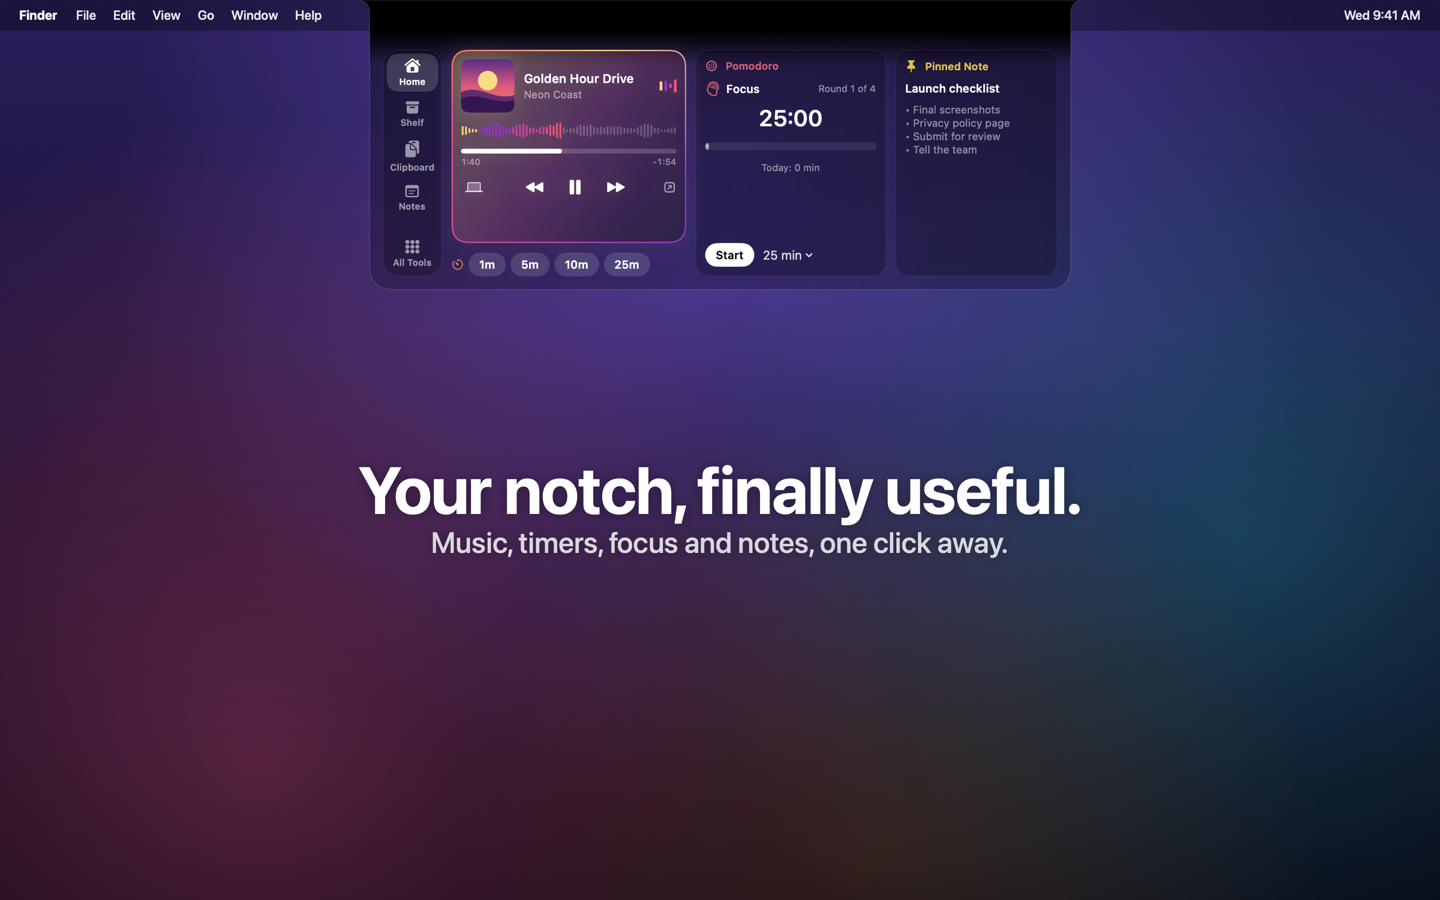
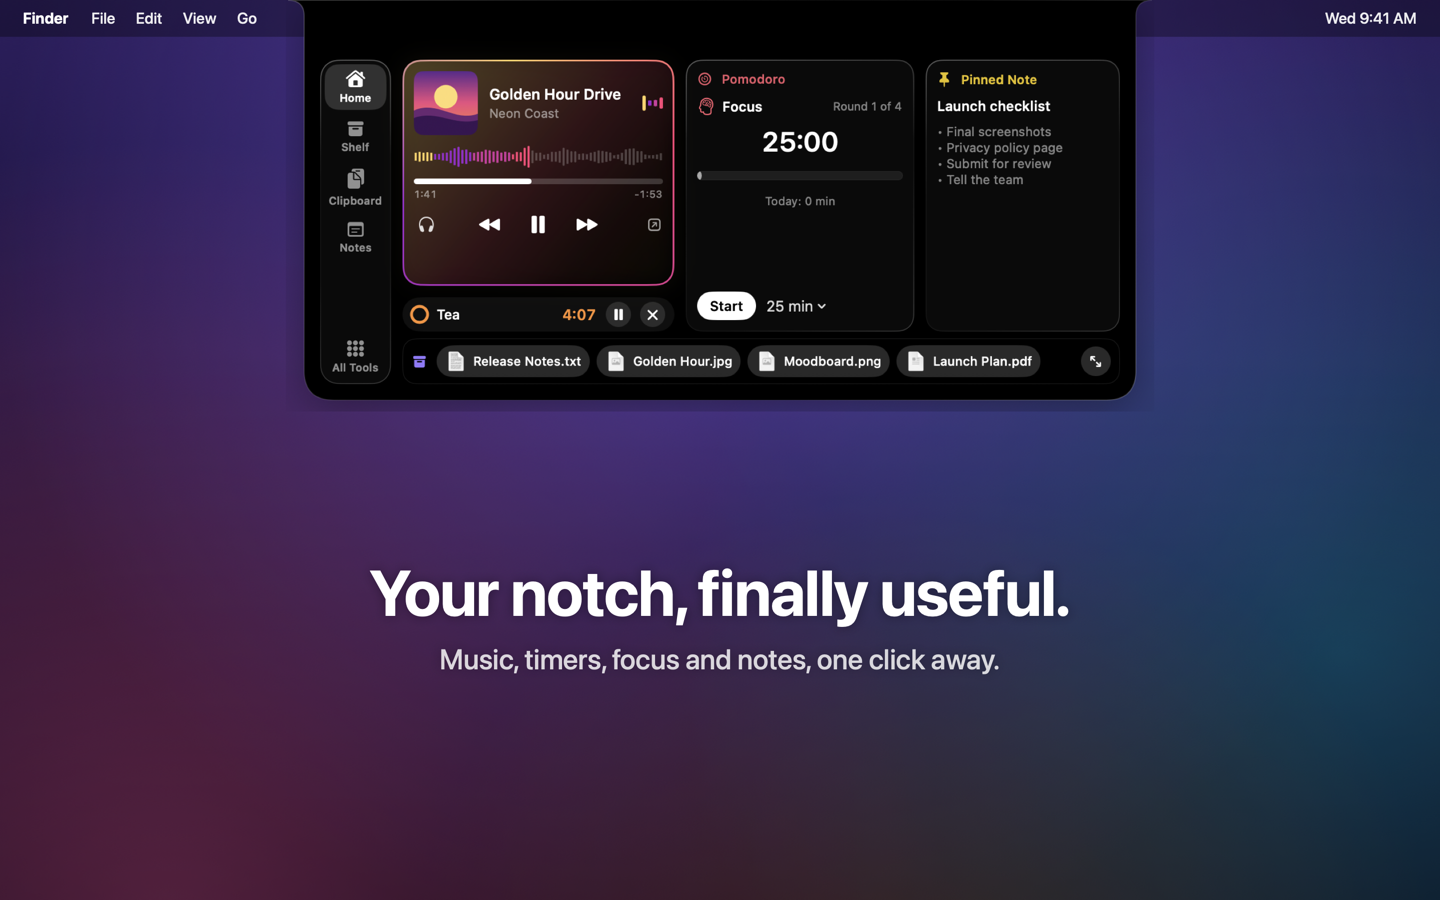
List Dynook on the products page as coming soon
Dynook now shows on /products with a 'Coming soon to the Mac App Store' note until it has a store link. The product page gets the new Home screenshot, the volume slider and Color Picker in its features, and notes that it's a one-time purchase not yet available in EU countries.

Changed region(s): [[0.0, 0.0, 0.875, 0.4667], [0.25, 0.4978, 0.75, 0.7467], [0.9062, 0.0, 1.0, 0.0622]]

diff --git a/src/app/products/page.tsx b/src/app/products/page.tsx
@@ -29,6 +29,9 @@ export default function ProductsPage() {
               <div>
                 <h2 className="font-semibold">{product.name}</h2>
                 <p className="text-sm text-muted-foreground">{product.tagline}</p>
+                {product.links.length === 0 && (
+                  <p className="mt-1 text-xs font-medium text-muted-foreground">Coming soon to the Mac App Store</p>
+                )}
               </div>
             </Link>
           ))}
